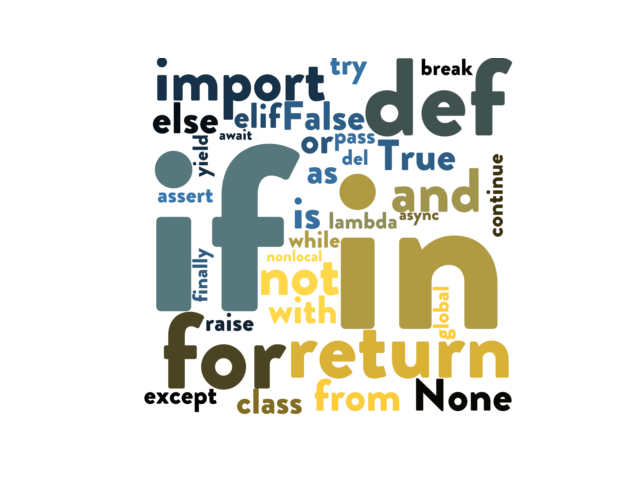
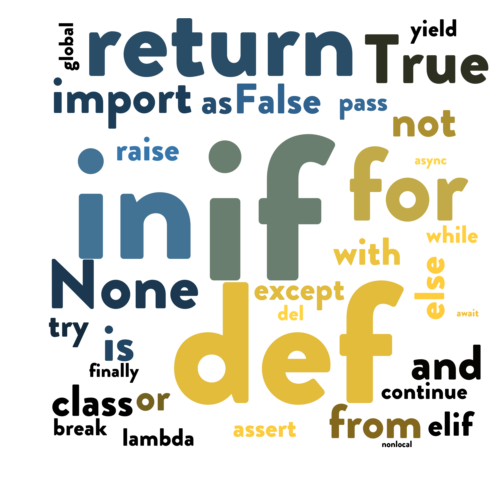
better stats and padding

diff --git a/python_keywords_word_cloud.py b/python_keywords_word_cloud.py
@@ -17,13 +17,17 @@ import keyword
 from collections import Counter
 import pickle
 
+keyword_list = keyword.kwlist
+punct_list = []#["\\[", "\\]", "{", "}", ":", "\\(", "\\)"]
+
 def count_keywords():
     keyword_counter = Counter()
 
     def is_python_file(filename):
         return filename[-3:] == ".py"
 
-    keyword_regex = f"\\b({'|'.join(keyword.kwlist)})\\b"
+    keyword_regex = f"\\b({'|'.join(keyword_list)})\\b"
+    punct_regex = f"({'|'.join(punct_list)})"
 
     def read_file_and_update_counter(filename):
         try:
@@ -31,16 +35,18 @@ def count_keywords():
                 content = f.read()
                 # print(f"reading {filename}...")
                 words = re.findall(keyword_regex, content)
+                punct = re.findall(punct_regex, content)
                 keyword_counter.update(words)
+                keyword_counter.update(punct)
         except:
             pass
 
     root_dir = "/Users/erinbennett/Downloads/python-corpus/cleaned"
 
     def walk(dir, depth=0):
-        if depth > 1:
+        if depth > 20:
             return
-        subdirs = os.listdir(dir)
+        subdirs = os.listdir(dir)[:200]
         for subdir in subdirs:
             filename = os.path.join(dir, subdir)
             if os.path.isdir(filename):
@@ -50,8 +56,12 @@ def count_keywords():
 
     walk(root_dir)
     print(keyword_counter)
+    return keyword_counter
 
-keyword_counter = {'if': 668419, 'in': 444107, 'def': 441969, 'for': 354337, 'return': 345347, 'import': 299904, 'and': 231973, 'not': 213646, 'None': 213204, 'is': 210602, 'from': 191930, 'else': 159122, 'True': 134425, 'False': 124164, 'or': 123727, 'with': 90966, 'as': 87376, 'class': 83658, 'elif': 79819, 'try': 79489, 'except': 77015, 'raise': 39473, 'pass': 30299, 'while': 25665, 'assert': 23208, 'continue': 20540, 'lambda': 19630, 'break': 17113, 'global': 13784, 'del': 10233, 'yield': 9149, 'finally': 6099, 'async': 584, 'nonlocal': 35, 'await': 19}
+# keyword_counter = count_keywords()
+# keyword_counter = {'if': 668419, 'in': 444107, 'def': 441969, 'for': 354337, 'return': 345347, 'import': 299904, 'and': 231973, 'not': 213646, 'None': 213204, 'is': 210602, 'from': 191930, 'else': 159122, 'True': 134425, 'False': 124164, 'or': 123727, 'with': 90966, 'as': 87376, 'class': 83658, 'elif': 79819, 'try': 79489, 'except': 77015, 'raise': 39473, 'pass': 30299, 'while': 25665, 'assert': 23208, 'continue': 20540, 'lambda': 19630, 'break': 17113, 'global': 13784, 'del': 10233, 'yield': 9149, 'finally': 6099, 'async': 584, 'nonlocal': 35, 'await': 19}
+# keyword_counter = {'(': 328941, ')': 328791, ':': 302851, '[': 85702, ']': 85641, 'if': 43764, 'def': 37034, 'in': 32232, '{': 32192, '}': 31995, 'return': 28428, 'for': 25703, 'is': 22505, 'None': 21778, 'and': 19627, 'import': 19003, 'not': 18475, 'from': 14480, 'class': 11779, 'True': 11607, 'or': 11174, 'else': 10711, 'False': 8925, 'as': 8238, 'with': 7976, 'elif': 4915, 'raise': 4830, 'try': 4823, 'except': 4384, 'pass': 2425, 'assert': 2025, 'lambda': 1302, 'continue': 1300, 'while': 1233, 'yield': 1156, 'break': 1144, 'del': 792, 'finally': 577, 'global': 542, 'async': 40, 'await': 5, 'nonlocal': 4}
+keyword_counter = {'if': 51894, 'def': 46459, 'in': 37405, 'return': 34773, 'for': 30030, 'None': 27524, 'True': 27442, 'import': 26643, 'is': 25799, 'and': 22194, 'not': 21752, 'from': 20541, 'class': 14971, 'or': 12702, 'else': 12606, 'False': 12599, 'as': 9588, 'with': 9131, 'try': 6284, 'raise': 5982, 'except': 5972, 'elif': 5900, 'pass': 3024, 'assert': 2430, 'while': 1534, 'lambda': 1512, 'continue': 1506, 'yield': 1421, 'break': 1386, 'del': 993, 'global': 718, 'finally': 649, 'async': 77, 'await': 8, 'nonlocal': 4}
 
 # Generate a word cloud image
 image_mask_file = "python_logo.png"
@@ -69,15 +79,18 @@ wordcloud = WordCloud(
     background_color="white", 
     mode="RGB", 
     max_words=100,
-    relative_scaling = .1,
+    relative_scaling = .3,
     font_path = font_path,
     mask=mask
     ).generate_from_frequencies(keyword_counter)
 
 # create coloring from image
 image_colors = ImageColorGenerator(mask)
-plt.figure(figsize=[100,100])
+plt.figure(figsize=[5,5])
 plt.imshow(wordcloud.recolor(color_func=image_colors), interpolation="bilinear")
+plt.tight_layout(pad=.1)
 plt.axis("off")
 plt.savefig("python_keywords.png", format="png")
 plt.show()
+
+""

diff --git a/README.md b/README.md
@@ -1,0 +1,6 @@
+Data source:
+
+[Raw Python Code Corpus](https://zenodo.org/record/3628784#.YwQeuezMKWA)
+Rafael - Michael Karampatsis; Hlib Babii; Romain Robbes; Charles Sutton; Andrea Janes
+
+![](python_keywords_01.png)
